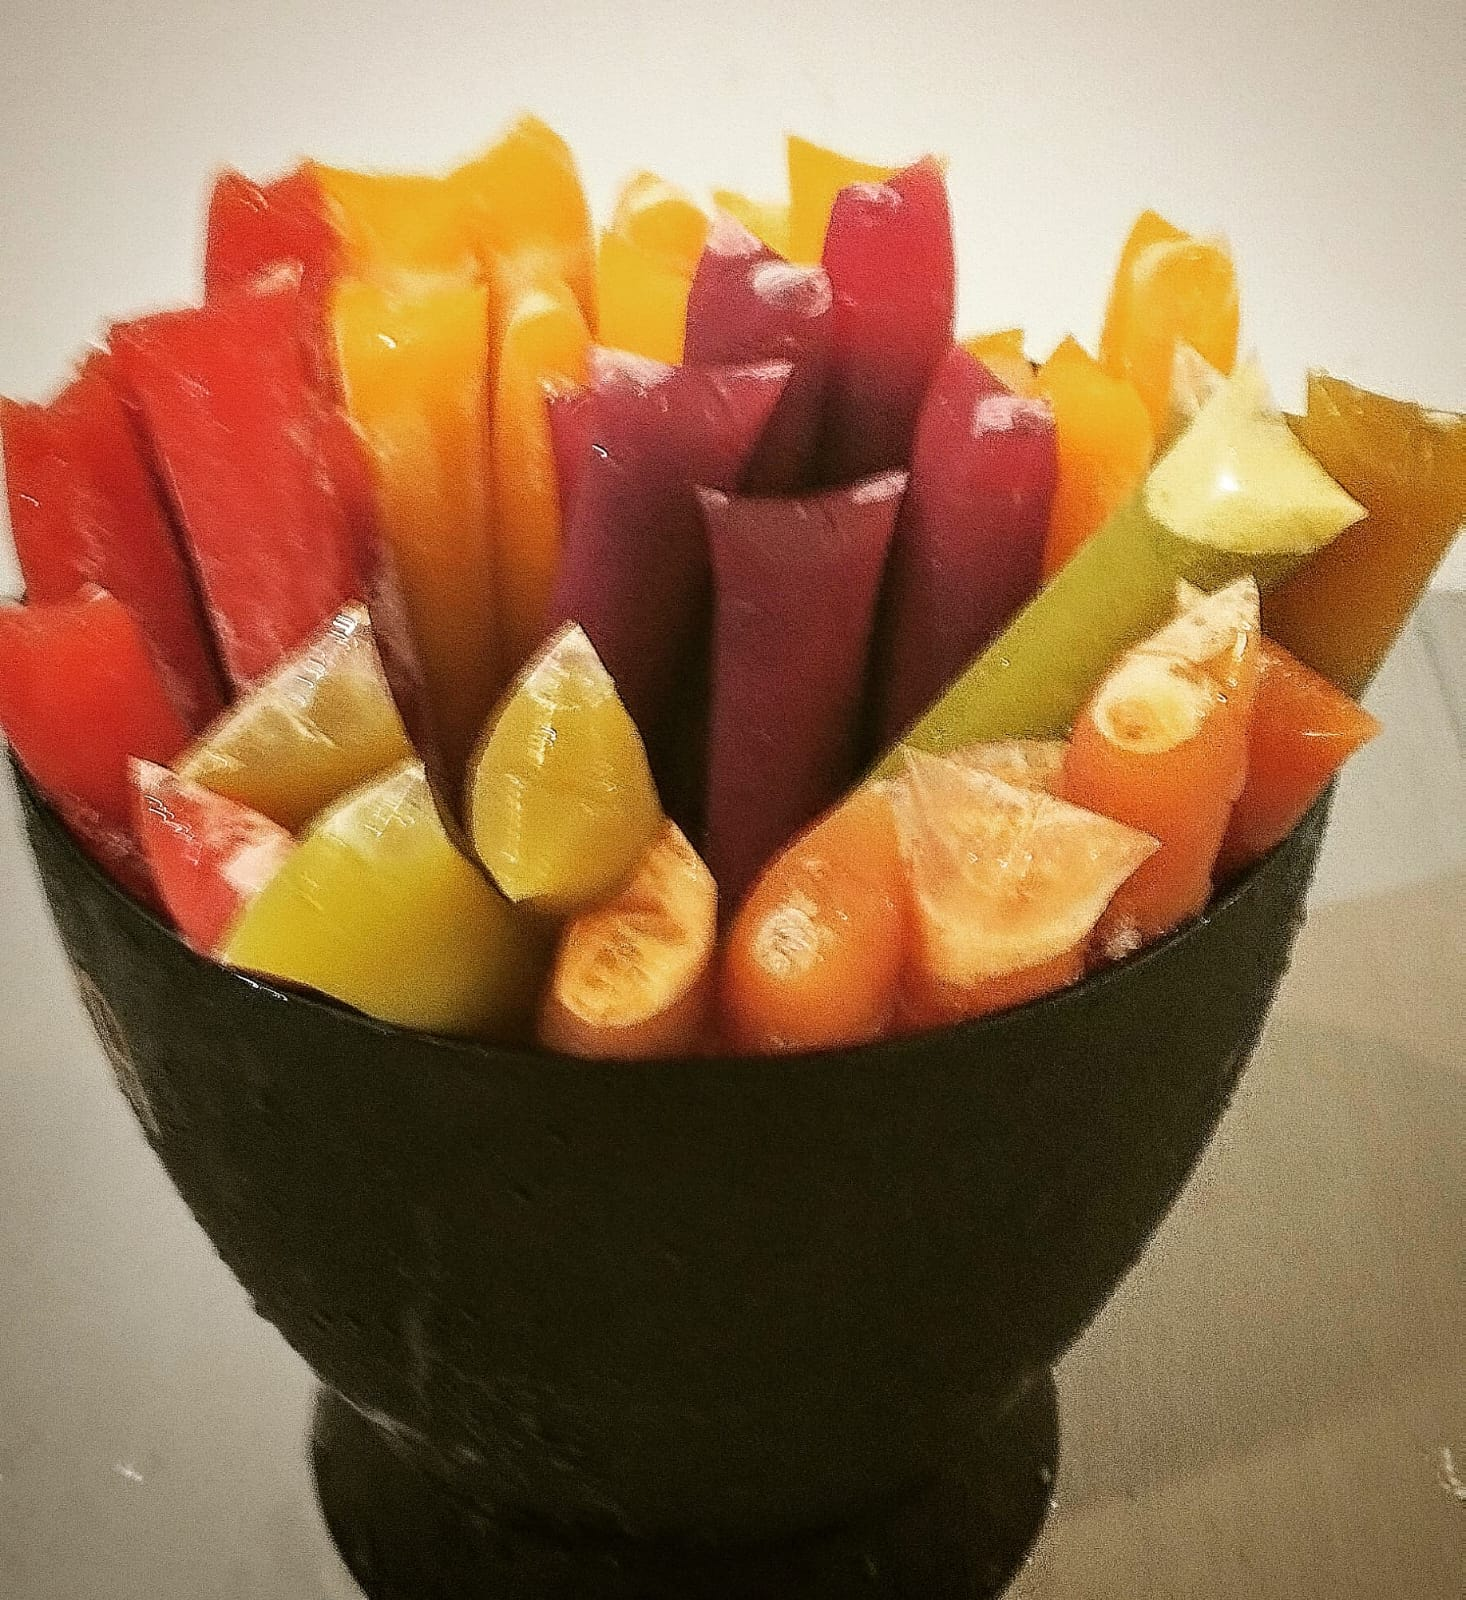
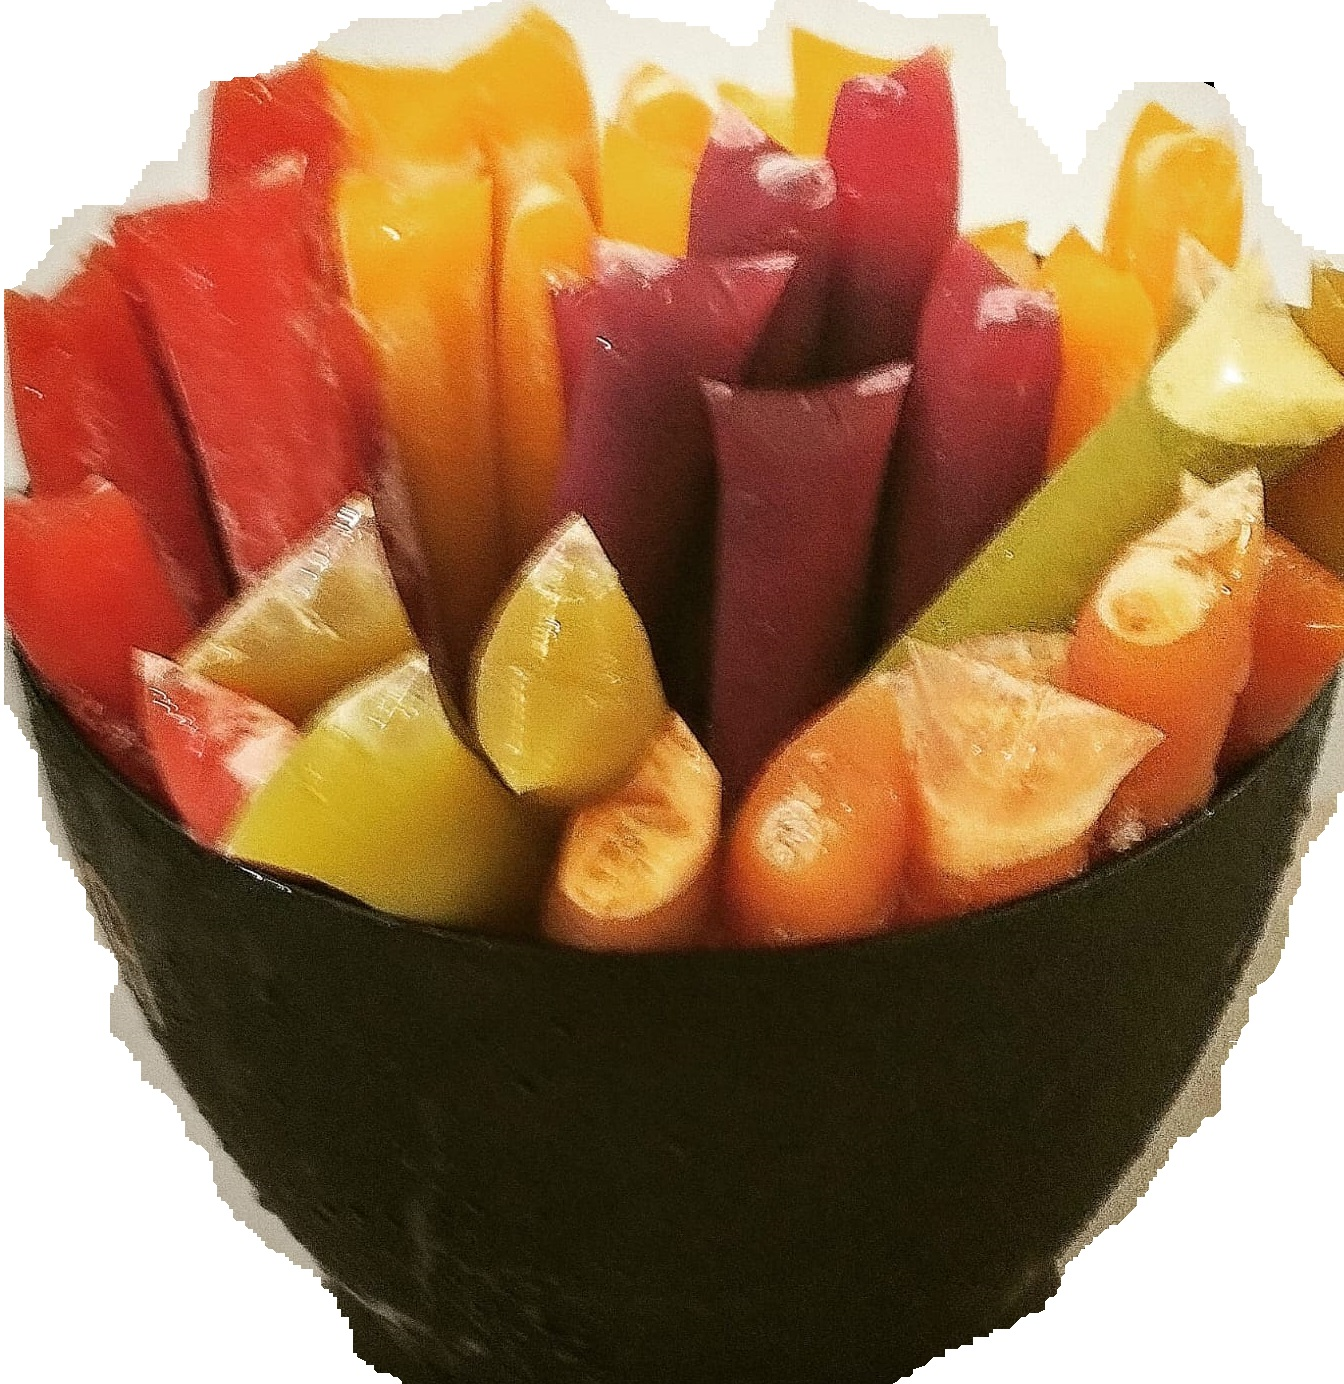
''

diff --git a/src/cardapio.js b/src/cardapio.js
@@ -77,8 +77,43 @@ exports.showCardapio2 = async function (client, messagefrom) {
 }
 
 
+exports.showPizzas = async function (client, messagefrom) {
+    util.sendImageStick(client, messagefrom, 'Pizzas', '');
+    client.sendText(messagefrom, '*Pizzas* - R$ 19,90 (6 fatias)', {
+        useTemplateButtons: true,
+        buttons: [
+            {
+                text: 'Calabresa'
+            },
+            {
+                text: 'Frango'
+            },
+            {
+                text: 'Quatro Queijos'
+            },
+        ],
+    });
+    client.sendText(messagefrom, '*Pizzas* - R$ 19,90 (6 fatias)', {
+        useTemplateButtons: true,
+        buttons: [
+            {
+                text: 'Portuguesa'
+            },
+            {
+                text: 'Bacon'
+            },
+            {
+                text: 'Mussarela'
+            },
+        ],
+    });
+}
+
+
+
+
 exports.showSucos = async function (client, messagefrom) {
-    util.sendImages(client, messagefrom, 'Sucos', '');
+    util.sendImageStick(client, messagefrom, 'Sucos', '');
 
     client.sendListMessage(messagefrom, {
         buttonText: 'Clique',

diff --git a/src/comandos.js b/src/comandos.js
@@ -21,4 +21,9 @@ exports.checkComandos = async function (client, message, userStages) {
         cardapio.showSucos(client, message.from);
         userStages[message.from].stage = 'cardapiosent';
     }
+
+    if (msgUser.toLowerCase() == 'pizzas' || msgUser.toLowerCase() == 'pizza') {
+        cardapio.showPizzas(client, message.from);
+        userStages[message.from].stage = 'cardapiosent';
+    }
 }

diff --git a/src/util.js b/src/util.js
@@ -19,7 +19,7 @@ exports.sendImageStick = async function (client, messagefrom, imagename) {
     await client
         .sendImageAsSticker(
             messagefrom,
-            './img/' + imagename + '.png'
+            './img/' + imagename + '.jpg'
         )
         .then((result) => {
             //console.log('Result: ', result);
